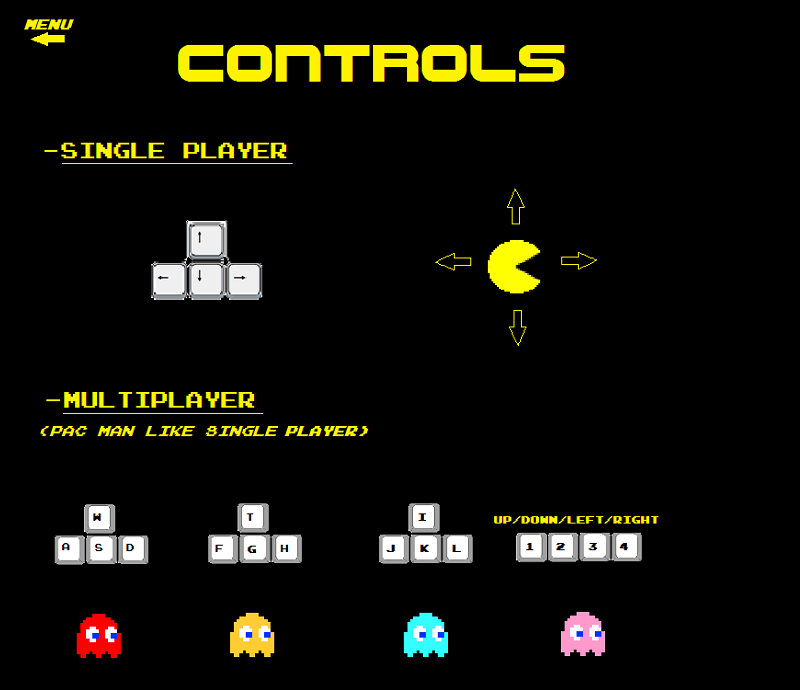
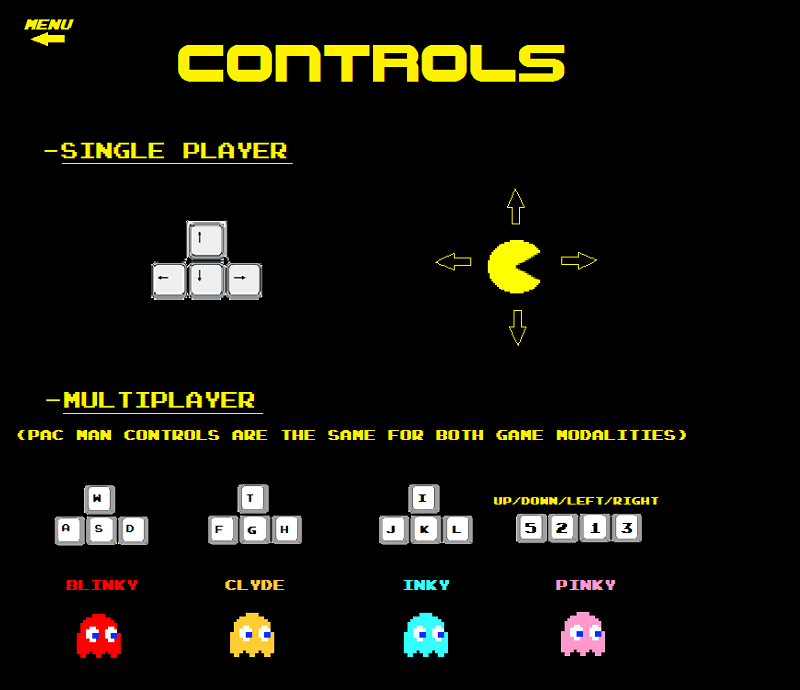
modalità extreme (menu) aggiunta + piccole modifiche schermata control

diff --git a/PacMan/src/view/menu/Menu.java b/PacMan/src/view/menu/Menu.java
@@ -27,6 +27,7 @@ public class Menu extends javax.swing.JFrame {
     private javax.swing.JLabel controls;
     private javax.swing.JLabel multi_player;
     private javax.swing.JLabel quit;
+    private javax.swing.JLabel extreme;
     private javax.swing.JLabel single_player;
     private javax.swing.JLabel title;
     private javax.swing.JLabel image_menu;
@@ -55,6 +56,15 @@ public class Menu extends javax.swing.JFrame {
     public void multi_playerMousePressed(java.awt.event.MouseEvent evt) {                                           
         setVisible(false);
         controller.startGame("multi");
+    }
+    
+     /**
+     * This method checks if extreme's button is pressed by the player
+     * @param evt indetify the event
+     */  
+    public void extremeMousePressed(MouseEvent evt) {
+        setVisible(false);
+        controller.startGame("extreme");
     }
     
     /**
@@ -103,6 +113,7 @@ public class Menu extends javax.swing.JFrame {
         multi_player = new javax.swing.JLabel();
         controls = new javax.swing.JLabel();
         quit = new javax.swing.JLabel();
+        extreme = new javax.swing.JLabel();
         image_menu = new javax.swing.JLabel();
         controls_image = new javax.swing.JLabel();
         menu_label = new javax.swing.JLabel();
@@ -153,6 +164,17 @@ public class Menu extends javax.swing.JFrame {
         multi_player.addMouseListener(new java.awt.event.MouseAdapter() {
             public void mousePressed(java.awt.event.MouseEvent evt) {
                 multi_playerMousePressed(evt);
+                setVisible(false);
+            }
+        });       
+        
+        extreme.setFont(pac_man_font2.deriveFont(0,30)); 
+        extreme.setForeground(new java.awt.Color(255, 255, 0));
+        extreme.setText("Extreme");
+        extreme.setCursor(new java.awt.Cursor(java.awt.Cursor.HAND_CURSOR));
+        extreme.addMouseListener(new java.awt.event.MouseAdapter() {
+            public void mousePressed(java.awt.event.MouseEvent evt) {
+                extremeMousePressed(evt);
                 setVisible(false);
             }
         });        
@@ -212,6 +234,7 @@ public class Menu extends javax.swing.JFrame {
             .addGroup(backgorund_panelLayout.createParallelGroup(javax.swing.GroupLayout.Alignment.LEADING)
             .addComponent(quit, javax.swing.GroupLayout.PREFERRED_SIZE, 90, javax.swing.GroupLayout.PREFERRED_SIZE)
             .addComponent(multi_player, javax.swing.GroupLayout.PREFERRED_SIZE, 300, javax.swing.GroupLayout.PREFERRED_SIZE)
+            .addComponent(extreme, javax.swing.GroupLayout.PREFERRED_SIZE, 300, javax.swing.GroupLayout.PREFERRED_SIZE)
             .addComponent(single_player, javax.swing.GroupLayout.PREFERRED_SIZE, 300, javax.swing.GroupLayout.PREFERRED_SIZE)
             .addComponent(controls, javax.swing.GroupLayout.PREFERRED_SIZE, 200, javax.swing.GroupLayout.PREFERRED_SIZE)))
             .addGroup(backgorund_panelLayout.createSequentialGroup()
@@ -228,12 +251,15 @@ public class Menu extends javax.swing.JFrame {
             .addGroup(backgorund_panelLayout.createSequentialGroup()
             .addContainerGap()
             .addComponent(title, javax.swing.GroupLayout.PREFERRED_SIZE, 160, javax.swing.GroupLayout.PREFERRED_SIZE)
-            .addGap(70, 70, 70)
+            .addGap(50, 50, 50)
             .addComponent(single_player, javax.swing.GroupLayout.PREFERRED_SIZE, 37, javax.swing.GroupLayout.PREFERRED_SIZE)
             .addGap(29, 29, 29)
             .addComponent(multi_player, javax.swing.GroupLayout.PREFERRED_SIZE, 45, javax.swing.GroupLayout.PREFERRED_SIZE)
             .addGap(29, 29, 29)
+            .addComponent(extreme, javax.swing.GroupLayout.PREFERRED_SIZE, 45, javax.swing.GroupLayout.PREFERRED_SIZE)
+            .addGap(29, 29, 29)
             .addComponent(controls, javax.swing.GroupLayout.PREFERRED_SIZE, 45, javax.swing.GroupLayout.PREFERRED_SIZE)
+            .addGap(5, 5, 5)
             .addComponent(image_menu, javax.swing.GroupLayout.PREFERRED_SIZE, 130, javax.swing.GroupLayout.PREFERRED_SIZE)
             .addGap(10, 10, 10)
             .addComponent(quit, javax.swing.GroupLayout.PREFERRED_SIZE, 42, javax.swing.GroupLayout.PREFERRED_SIZE)
